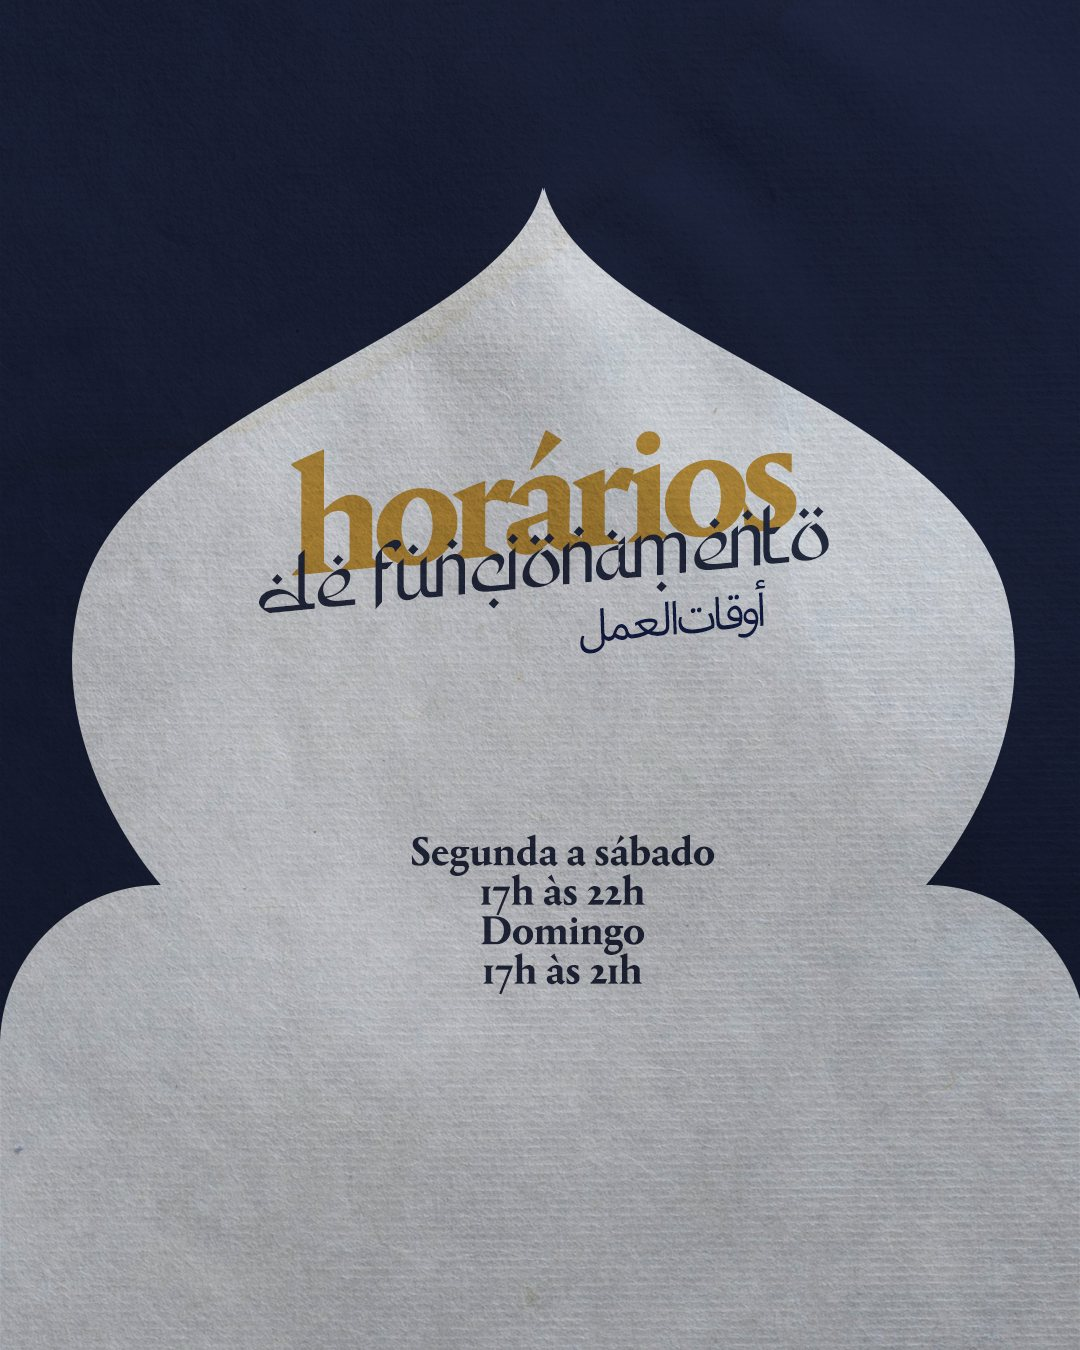
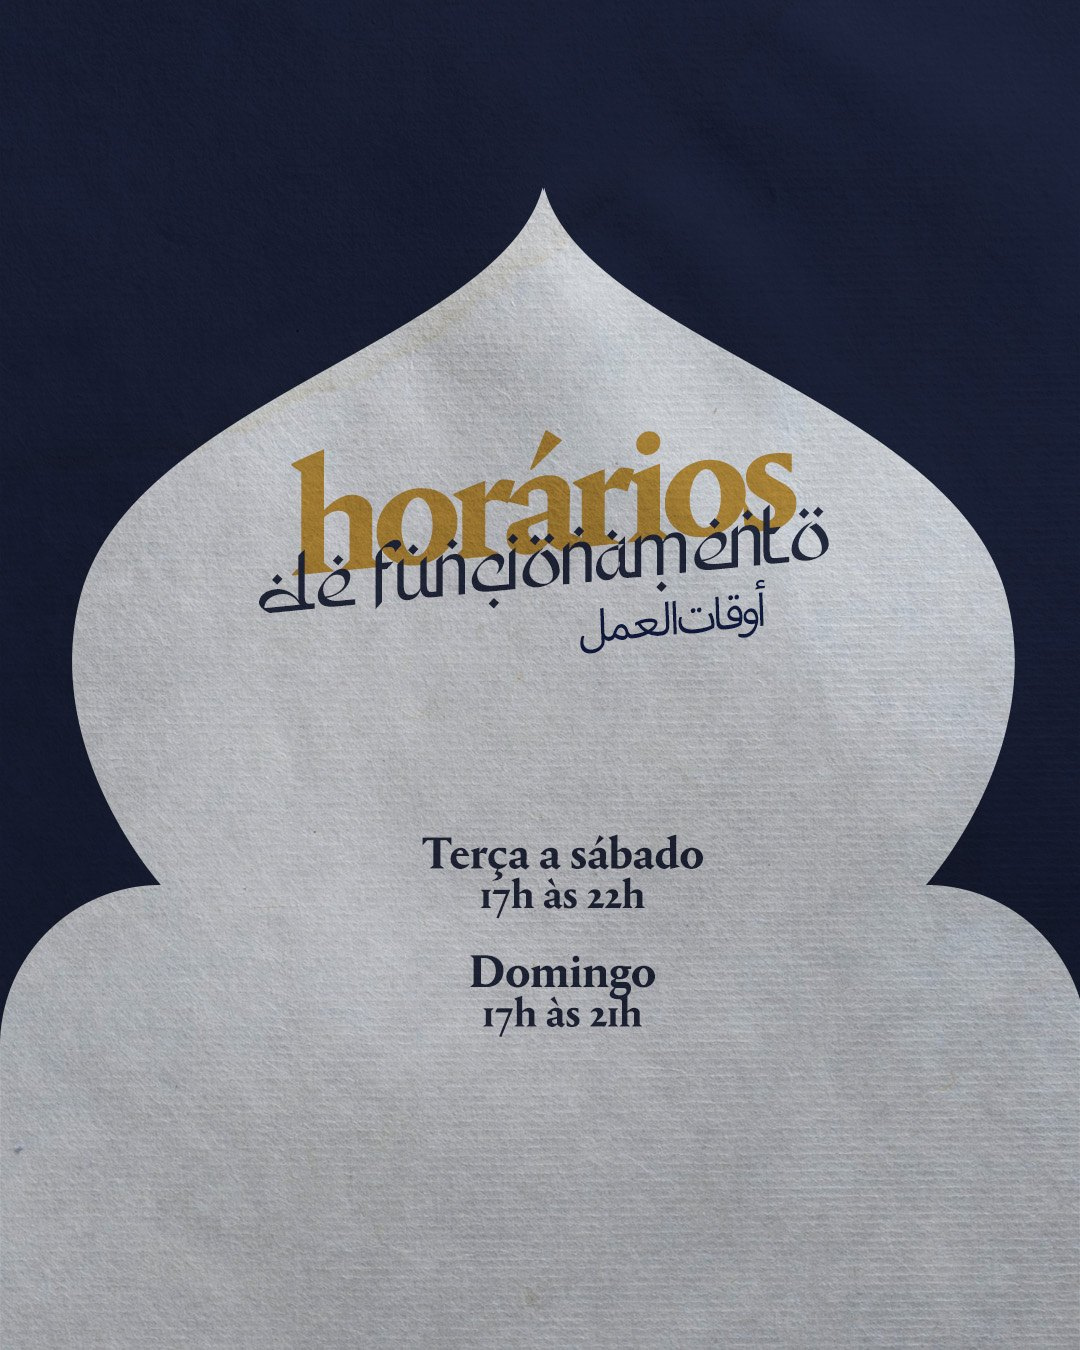
Yasmine: horários terça a sábado no carrossel 01
Claude-Session: https://claude.ai/code/session_01Y3VWB5AakMQg7nFhwvDpAo

Changed region(s): [[0.3667, 0.6222, 0.6722, 0.7778]]

diff --git a/public/yasmine/index.html b/public/yasmine/index.html
@@ -415,7 +415,7 @@ textarea{width:100%;min-height:70px;resize:vertical;background:var(--ink);color:
   },
   "months": [
     {"id":"2026-10","label":"Outubro","year":"2026","posts":[
-    {"id":"01","date":"2026-10-18","format":"carrossel","images":["img/01-1.jpg","img/01-2.jpg?v=2","img/01-3.jpg","img/01-4.jpg"],"caption":"Já sabe onde encontrar o Yasmine?\nEstamos no Sudoeste, no Ed. Antares Center, com uma mesa esperando por você.\nCCSW 5, Ed. Antares Center\nBloco 1, Loja 09 — Sudoeste, Brasília/DF\n\nSegunda a sábado: 17h às 22h\nDomingo: 17h às 21h\n\nSalve este post para consultar quando vier nos visitar.\nAhlan wa Sahlan. Seja bem-vindo ao Yasmine."},
+    {"id":"01","date":"2026-10-18","format":"carrossel","images":["img/01-1.jpg","img/01-2.jpg?v=2","img/01-3.jpg?v=2","img/01-4.jpg"],"caption":"Já sabe onde encontrar o Yasmine?\nEstamos no Sudoeste, no Ed. Antares Center, com uma mesa esperando por você.\nCCSW 5, Ed. Antares Center\nBloco 1, Loja 09 — Sudoeste, Brasília/DF\n\nTerça a sábado: 17h às 22h\nDomingo: 17h às 21h\n\nSalve este post para consultar quando vier nos visitar.\nAhlan wa Sahlan. Seja bem-vindo ao Yasmine."},
     {"id":"02","date":"2026-10-22","format":"carrossel","images":["img/02-1.jpg","img/02-2.jpg","img/02-3.jpg"],"caption":"Vai reunir a família, encontrar os amigos ou simplesmente está com vontade de comida árabe?\nReserve sua mesa no Yasmine pelo WhatsApp.\n\nNa mensagem, informe:\n• nome da reserva;\n• dia e horário desejados;\n• número de pessoas.\n\nNossa equipe confirma a disponibilidade e retorna com a confirmação da sua reserva.\nDepois é só chegar. A mesa e os sabores ficam por nossa conta."},
     {"id":"03","date":"2026-10-20","format":"reels","video":"vid/03.mp4","images":["img/03-1.jpg"],"caption":"Quando olhamos para o Yasmine hoje, com o restaurante aberto e as pessoas chegando para sentar à nossa mesa, a gente lembra que tudo começou de um jeito muito diferente.\n\nEu conheci o Mohamad aqui em Brasília. Nós dois trabalhávamos em restaurantes e compartilhávamos a mesma vontade: construir algo nosso.\nComeçamos na casa dele, em Valparaíso, produzindo doces árabes para vender. Aos poucos, chegaram mais encomendas, eventos, outros restaurantes e a produção foi crescendo.\n\nAté que alugamos uma pequena loja no Sudoeste. A ideia era ter mais espaço para produzir e trabalhar também com delivery.\nMas os clientes começaram a aparecer por lá. E, mesmo sem termos estrutura para receber ninguém, ficavam na porta comendo.\nFoi quando percebemos que talvez estivesse na hora de dar um passo maior.\n\nHoje, aquela produção que começou dentro de casa ganhou um restaurante, um cardápio maior e, finalmente, um espaço para receber vocês.\nAinda temos muito para construir, mas poder olhar para trás e ver até onde chegamos é muito especial para nós."},
     {"id":"04","date":"2026-11-20","format":"reels","video":"vid/04.mp4?v=2","images":["img/04-1.jpg?v=4"],"caption":"Agora queremos saber de quem já passou por aqui: já experimentou os nossos doces?\nConta pra gente qual você escolheria de novo. A gente quer saber."},
